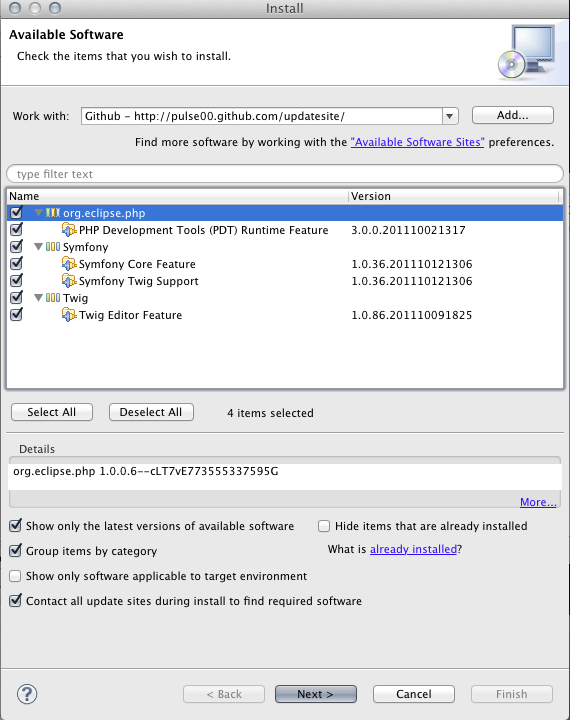
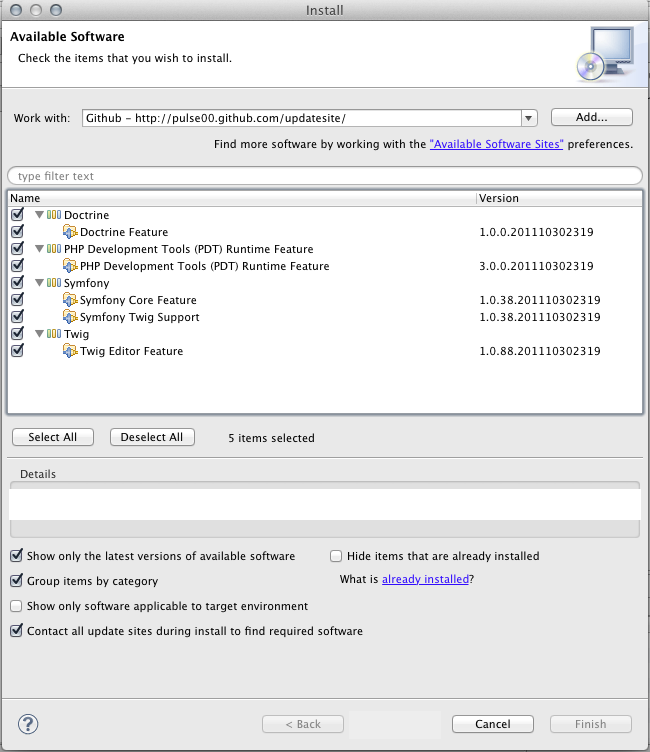
added translation/doctrine features to docs

Changed region(s): [[0.0, 0.0, 1.0, 1.0], [0.4474, 0.0, 0.5368, 0.0306]]

diff --git a/index.html b/index.html
@@ -91,22 +91,18 @@
 				<h2>Installation via Updatesite</h2>			
 				<p>The plugin can be installed via the regular <a href="http://help.eclipse.org/helios/index.jsp?topic=/org.eclipse.platform.doc.user/tasks/tasks-124.htm">update site mechanism.</a></p>
 				<p>The update site is located at<br/><br/> <span id="updatelink"><a href="http://pulse00.github.com/updatesite/">http://pulse00.github.com/updatesite/</a></span></p>
-				<br/><p>After adding the updatesite to your eclipse installation, you will see 3 categories:				
+				<br/><p>After adding the updatesite to your eclipse installation, you will see 4 categories:				
 
 				
 				</p>	
-				<ul>
-          <li>org.eclipse.php</li>
-          <li>Symfony</li>
-          <li>Twig</li>            
-        </ul>
         
 				<div class="centered">
 				  
 					<a class="lightbox" href="images/screenshots/install_window.png"><img src="images/screenshots/install_window_thumb.png"></img></a>
 					</div>
-				<p>The Symfony Core Feature is mandatory. The Twig Support Feature is only needed if you use the <a href="http://www.twig-project.org/">Twig templating engine</a>. If you need Twig Support, install the separate <a href="https://github.com/pulse00/Twig-Eclipse-Plugin">Twig plugin</a>.
+				<p>The Symfony Core Feature is mandatory. The Twig Support Feature is only needed if you use the <a href="http://www.twig-project.org/">Twig templating engine</a>. If you need Twig Support, install the separate <a href="https://github.com/pulse00/Twig-Eclipse-Plugin">Twig plugin</a>.				  
 					</p>
+					<p>The Doctrine Feature is optional but provides some useful stuff if you're using the <a href="http://www.doctrine-project.org/">Doctrine ORM/ODM</a> like indexing of Entities/Documents and Repository classes. It also provides "Generate Getter/Setter" functionality for class fields.</p>
 					
 					
 					<h2>Updating</h2>
@@ -189,6 +185,30 @@
 						<div class="multiShot centered">				
 							<a href="images/screenshots/annotationcompletion.png"><img src="images/screenshots/annotationcompletion_thumb.png"></img></a>
 							<a href="images/screenshots/annotationinjection.png"><img src="images/screenshots/annotationinjection_thumb.png"></img></a>
+						</div>
+						
+						
+						<h3 id="topfeature">Doctrine Entities/Repository classes</h3>
+												
+						<p>Repository retrieval will aid with some hints for Bundles and Entities:</p>
+
+						<div class="multiShot centered">				
+							<a href="images/screenshots/repo_bundle_assist.png"><img src="images/screenshots/repo_bundle_assist_thumb.png"></img></a>
+							<a href="images/screenshots/repo_entity_assist.png"><img src="images/screenshots/repo_entity_assist_thumb.png"></img></a>
+						</div>
+						
+						<p>Repository classes can be fully resolved by the type inference engine:</p>
+						
+						<div class="centered">				
+							<a class ="lightbox" href="images/screenshots/repo_type_inference.png"><img src="images/screenshots/repo_type_inference_thumb.png"></img></a>
+						</div>						
+						
+						<h3 id="topfeature">Translations</h3>						
+						
+						<p>If you're inside a translation context, you'll get a list of available translation units including the translation for every available language:</p>
+
+						<div class="centered">				
+							<a class ="lightbox" href="images/screenshots/translations.png"><img src="images/screenshots/translations_thumb.png"></img></a>
 						</div>
 
 						<h3>Template variables</h3>

diff --git a/web/plugin.css b/web/plugin.css
@@ -341,3 +341,8 @@ p.info {
 	color: red;
 	font-weight: bolder;	
 }
+
+.multiShot a {
+	
+	
+}
